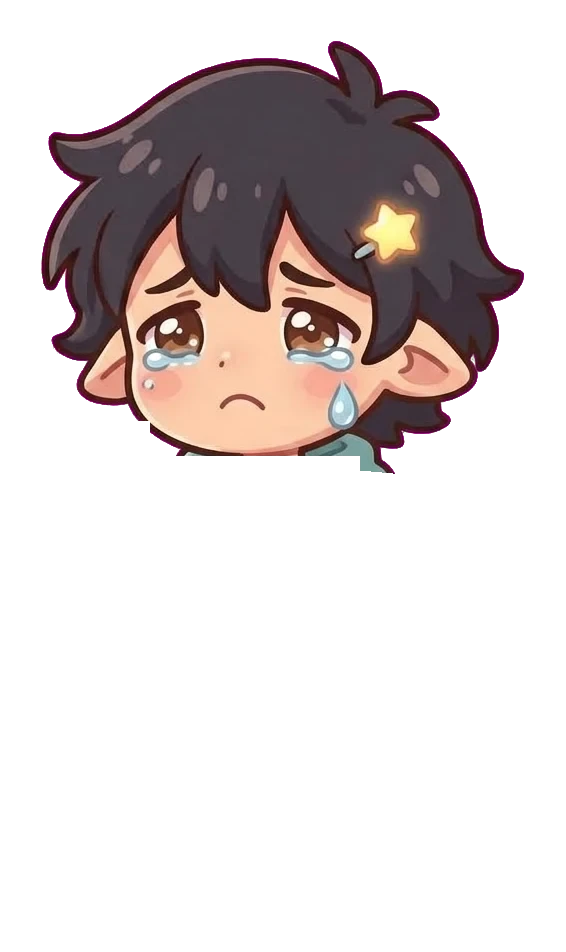
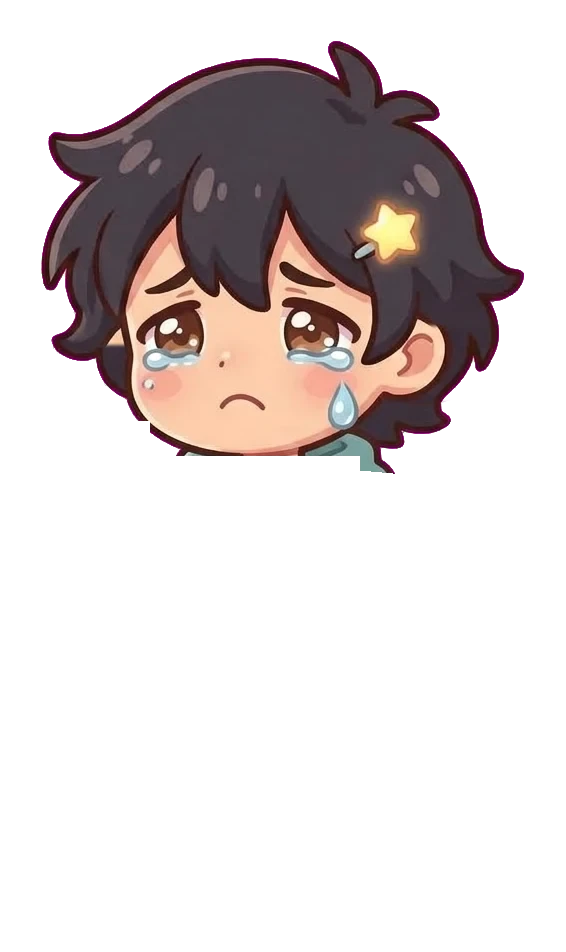
fix(roster): Chalito's sad head takes the round ears (the sad drawing's are pointed)

Changed region(s): [[0.6608, 0.3351, 0.841, 0.4265], [0.1201, 0.3351, 0.2403, 0.4265]]

diff --git a/packages/roster/scripts/rig_chalito.py b/packages/roster/scripts/rig_chalito.py
@@ -39,6 +39,14 @@ HEADS = ["neutral", "happy", "sad", "tired"]  # surprised holds its face with bo
 HEAD_SIDES_Y = 420
 CHIN_X = (150, 420)
 OVERLAP = 25  # the body keeps this band under the head so a tilt never shows a gap
+# The sad drawing has pointed ears; its head takes the round ones (and the hair around them) from
+# the tired drawing, which lines up with it.
+HEAD_PATCHES = {
+    "sad": [
+        ("tired", [(58, 345), (128, 345), (128, 418), (58, 418)]),
+        ("tired", [(372, 326), (486, 326), (486, 402), (372, 402)]),
+    ],
+}
 
 
 def load(name):
@@ -209,7 +217,10 @@ def main():
     files["rig-body.webp"] = body
 
     for name in HEADS:
-        files[f"rig-head-{name}.webp"] = cut(load(name), head_mask(name))
+        src = load(name)
+        for other, poly in HEAD_PATCHES.get(name, []):
+            src.paste(load(other), (0, 0), poly_mask(poly, blur=1.5))
+        files[f"rig-head-{name}.webp"] = cut(src, head_mask(name))
     files["rig-lids.webp"] = lids(neutral)
     files["rig-mouth.webp"] = mouth()
 
